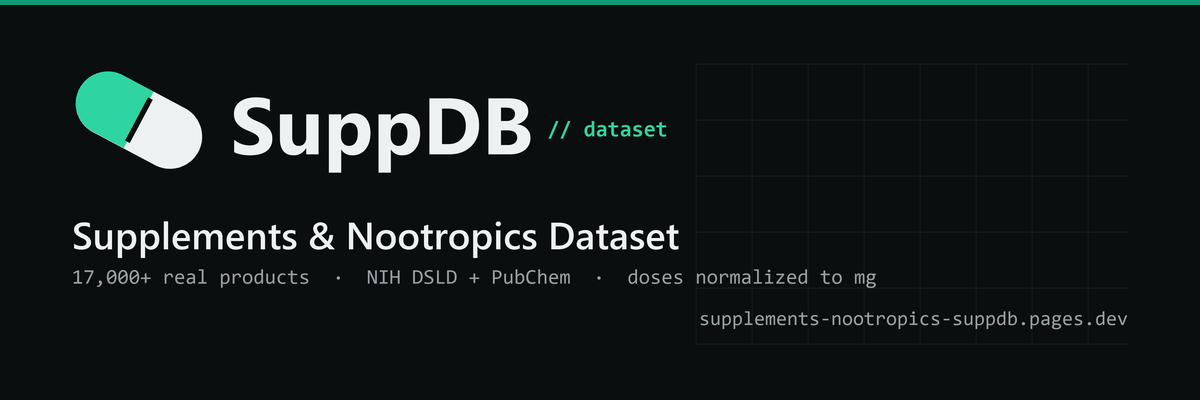
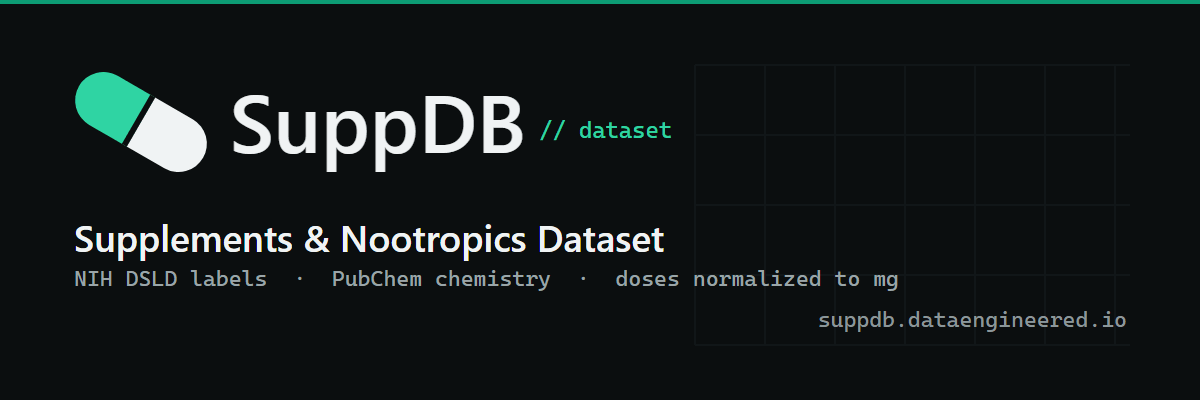
fix(cards): count-free social card on the new host; Kaggle cover redrawn
The social card (og:image, twitter:image, JSON-LD, web manifest) and the
Kaggle cover still read "17,000+ real products" / "115,000+ ingredient
records" and the retired supplements-nootropics-suppdb.pages.dev host.

- og-image-v2.png: same design, suppdb.dataengineered.io, no counts.
  New name because _headers serves /*.png immutable for a year; every
  reference moved (homepage + /stats/ in 5 languages via i18n build,
  generate_stats.py, site.webmanifest, sw.js with a new cache name).
- og-image.png deleted and listed in RETIRED_FILES in the middleware
  (404), as on RecallDB.
- assets/kaggle-cover.png redrawn in place (only the README links it).
- scripts/render_cards.py draws both (headless Edge + numpy).

diff --git a/fr/index.html b/fr/index.html
@@ -33,12 +33,12 @@
 <meta content="https://suppdb.dataengineered.io/fr/" property="og:url"/>
 <meta content="SuppDB — Jeu de données compléments alimentaires &amp; nootropiques" property="og:site_name"/>
 <meta content="website" property="og:type"/>
-<meta content="https://suppdb.dataengineered.io/og-image.png" property="og:image"/>
+<meta content="https://suppdb.dataengineered.io/og-image-v2.png" property="og:image"/>
 <!-- Twitter Card -->
 <meta content="summary_large_image" name="twitter:card"/>
 <meta content="SuppDB — Jeu de données compléments alimentaires &amp; nootropiques (NIH DSLD + PubChem)" name="twitter:title"/>
 <meta content="Données structurées d'étiquettes de compléments : doses en mg, mélanges exclusifs, chimie PubChem — plus une couche Sécurité : interactions médicamenteuses, limites supérieures, contre-indications." name="twitter:description"/>
-<meta content="https://suppdb.dataengineered.io/og-image.png" name="twitter:image"/>
+<meta content="https://suppdb.dataengineered.io/og-image-v2.png" name="twitter:image"/>
 <!-- JSON-LD Structured Data Schema -->
 <script type="application/ld+json">
 {
@@ -69,7 +69,7 @@
 {
   "@context": "https://schema.org",
   "@type": "Product",
-  "image": "https://suppdb.dataengineered.io/og-image.png",
+  "image": "https://suppdb.dataengineered.io/og-image-v2.png",
   "name": "SuppDB Jeu de données compléments alimentaires & nootropiques — Snapshot complet",
   "description": "Jeu de données structuré sur les compléments alimentaires : 18 000+ produits réels de 2 000+ marques, chaque dose normalisée en mg, mélanges exclusifs signalés, enrichi avec la chimie NIH PubChem (CID, formule, SMILES, InChIKey) et les apports de référence NIH DRI, avec provenance complète des sources. SQLite relationnel plus CSV et JSON.",
   "brand": {
@@ -141,7 +141,7 @@
 {
   "@context": "https://schema.org",
   "@type": "Product",
-  "image": "https://suppdb.dataengineered.io/og-image.png",
+  "image": "https://suppdb.dataengineered.io/og-image-v2.png",
   "name": "Couche Sécurité & interactions SuppDB",
   "description": "Couche de sécurité pour les compléments alimentaires : 8 300+ interactions complément × médicament classées par niveau de preuve, pourcentage par produit de la limite supérieure tolérable avec indicateurs de dépassement, contre-indications liées à des pathologies et indicateurs AMA, livrés en SQLite relationnel + CSV + JSON.",
   "brand": {

diff --git a/de/index.html b/de/index.html
@@ -33,12 +33,12 @@
 <meta content="https://suppdb.dataengineered.io/de/" property="og:url"/>
 <meta content="SuppDB-Datensatz zu Nahrungsergänzungsmitteln &amp; Nootropika" property="og:site_name"/>
 <meta content="website" property="og:type"/>
-<meta content="https://suppdb.dataengineered.io/og-image.png" property="og:image"/>
+<meta content="https://suppdb.dataengineered.io/og-image-v2.png" property="og:image"/>
 <!-- Twitter Card -->
 <meta content="summary_large_image" name="twitter:card"/>
 <meta content="SuppDB — Datensatz zu Nahrungsergänzungsmitteln &amp; Nootropika (NIH DSLD + PubChem)" name="twitter:title"/>
 <meta content="Strukturierte Etikettendaten zu Nahrungsergänzungsmitteln: mg-Dosen, proprietäre Mischungen, PubChem-Chemie — plus Sicherheitsebene mit Wechselwirkungen, Höchstmengen und Kontraindikationen." name="twitter:description"/>
-<meta content="https://suppdb.dataengineered.io/og-image.png" name="twitter:image"/>
+<meta content="https://suppdb.dataengineered.io/og-image-v2.png" name="twitter:image"/>
 <!-- JSON-LD Structured Data Schema -->
 <script type="application/ld+json">
 {
@@ -69,7 +69,7 @@
 {
   "@context": "https://schema.org",
   "@type": "Product",
-  "image": "https://suppdb.dataengineered.io/og-image.png",
+  "image": "https://suppdb.dataengineered.io/og-image-v2.png",
   "name": "SuppDB-Datensatz zu Nahrungsergänzungsmitteln & Nootropika — Vollständiger Snapshot",
   "description": "Strukturierter Datensatz zu Nahrungsergänzungsmitteln: 18.000+ echte Produkte von 2.000+ Marken, jede Dosis auf mg normalisiert, proprietäre Mischungen markiert, angereichert mit NIH-PubChem-Chemie (CID, Summenformel, SMILES, InChIKey) und NIH-DRI-Referenzzufuhrwerten, mit vollständiger Herkunftsangabe. Relationale SQLite-Datenbank plus CSV und JSON.",
   "brand": {
@@ -141,7 +141,7 @@
 {
   "@context": "https://schema.org",
   "@type": "Product",
-  "image": "https://suppdb.dataengineered.io/og-image.png",
+  "image": "https://suppdb.dataengineered.io/og-image-v2.png",
   "name": "SuppDB-Sicherheits- & Wechselwirkungsebene",
   "description": "Sicherheitsebene für Nahrungsergänzungsmittel: 8.300+ nach Evidenz bewertete Wechselwirkungen zwischen Supplements und Arzneimitteln, Anteil an der tolerierbaren Höchstmenge pro Produkt in % mit Markierung bei Überschreitung, Kontraindikationen bei Erkrankungen und WADA-Markierungen, geliefert als relationale SQLite + CSV + JSON.",
   "brand": {

diff --git a/pt-br/index.html b/pt-br/index.html
@@ -33,12 +33,12 @@
 <meta content="https://suppdb.dataengineered.io/pt-br/" property="og:url"/>
 <meta content="SuppDB — conjunto de dados de suplementos &amp; nootrópicos" property="og:site_name"/>
 <meta content="website" property="og:type"/>
-<meta content="https://suppdb.dataengineered.io/og-image.png" property="og:image"/>
+<meta content="https://suppdb.dataengineered.io/og-image-v2.png" property="og:image"/>
 <!-- Twitter Card -->
 <meta content="summary_large_image" name="twitter:card"/>
 <meta content="SuppDB — conjunto de dados de suplementos &amp; nootrópicos (NIH DSLD + PubChem)" name="twitter:title"/>
 <meta content="Dados estruturados de rótulos de suplementos: doses em mg, misturas proprietárias, química PubChem — mais uma camada de segurança com interações medicamentosas, limites superiores e contraindicações." name="twitter:description"/>
-<meta content="https://suppdb.dataengineered.io/og-image.png" name="twitter:image"/>
+<meta content="https://suppdb.dataengineered.io/og-image-v2.png" name="twitter:image"/>
 <!-- JSON-LD Structured Data Schema -->
 <script type="application/ld+json">
 {
@@ -69,7 +69,7 @@
 {
   "@context": "https://schema.org",
   "@type": "Product",
-  "image": "https://suppdb.dataengineered.io/og-image.png",
+  "image": "https://suppdb.dataengineered.io/og-image-v2.png",
   "name": "SuppDB — conjunto de dados de suplementos & nootrópicos — Snapshot completo",
   "description": "Conjunto de dados estruturado de suplementos: 18.000+ produtos reais de 2.000+ marcas, todas as doses normalizadas em mg, misturas proprietárias sinalizadas, enriquecido com química NIH PubChem (CID, fórmula, SMILES, InChIKey) e ingestões de referência NIH DRI, com procedência completa da fonte. SQLite relacional mais CSV e JSON.",
   "brand": {
@@ -141,7 +141,7 @@
 {
   "@context": "https://schema.org",
   "@type": "Product",
-  "image": "https://suppdb.dataengineered.io/og-image.png",
+  "image": "https://suppdb.dataengineered.io/og-image-v2.png",
   "name": "Camada de segurança & interações do SuppDB",
   "description": "Camada de segurança para suplementos: 8.300+ interações suplemento × medicamento com grau de evidência, % do limite superior tolerável por produto com sinalização de excesso, contraindicações por condição e sinalizações WADA, entregues em SQLite relacional + CSV + JSON.",
   "brand": {

diff --git a/es/index.html b/es/index.html
@@ -33,12 +33,12 @@
 <meta content="https://suppdb.dataengineered.io/es/" property="og:url"/>
 <meta content="SuppDB: dataset de suplementos y nootrópicos" property="og:site_name"/>
 <meta content="website" property="og:type"/>
-<meta content="https://suppdb.dataengineered.io/og-image.png" property="og:image"/>
+<meta content="https://suppdb.dataengineered.io/og-image-v2.png" property="og:image"/>
 <!-- Twitter Card -->
 <meta content="summary_large_image" name="twitter:card"/>
 <meta content="SuppDB — Dataset de suplementos y nootrópicos (NIH DSLD + PubChem)" name="twitter:title"/>
 <meta content="Datos estructurados de etiquetas de suplementos: dosis en mg, mezclas patentadas, química de PubChem — más una capa de seguridad de interacciones, límites superiores y contraindicaciones." name="twitter:description"/>
-<meta content="https://suppdb.dataengineered.io/og-image.png" name="twitter:image"/>
+<meta content="https://suppdb.dataengineered.io/og-image-v2.png" name="twitter:image"/>
 <!-- JSON-LD Structured Data Schema -->
 <script type="application/ld+json">
 {
@@ -69,7 +69,7 @@
 {
   "@context": "https://schema.org",
   "@type": "Product",
-  "image": "https://suppdb.dataengineered.io/og-image.png",
+  "image": "https://suppdb.dataengineered.io/og-image-v2.png",
   "name": "SuppDB: dataset de suplementos y nootrópicos — Snapshot completo",
   "description": "Dataset estructurado de suplementos: 18.000+ productos reales de 2.000+ marcas, cada dosis normalizada a mg, mezclas patentadas marcadas, enriquecido con química de NIH PubChem (CID, fórmula, SMILES, InChIKey) e ingestas de referencia DRI de los NIH, con procedencia completa de las fuentes. SQLite relacional más CSV y JSON.",
   "brand": {
@@ -141,7 +141,7 @@
 {
   "@context": "https://schema.org",
   "@type": "Product",
-  "image": "https://suppdb.dataengineered.io/og-image.png",
+  "image": "https://suppdb.dataengineered.io/og-image-v2.png",
   "name": "Capa de seguridad e interacciones de SuppDB",
   "description": "Capa de seguridad para suplementos: 8.300+ interacciones suplemento × fármaco con grado de evidencia, porcentaje del nivel máximo de ingesta tolerable por producto con indicadores de exceso, contraindicaciones por condición e indicadores de la AMA, entregada como SQLite relacional + CSV + JSON.",
   "brand": {

diff --git a/index.html b/index.html
@@ -32,13 +32,13 @@
   <meta property="og:url" content="https://suppdb.dataengineered.io/" />
   <meta property="og:site_name" content="SuppDB Supplements & Nootropics Dataset" />
   <meta property="og:type" content="website" />
-  <meta property="og:image" content="https://suppdb.dataengineered.io/og-image.png" />
+  <meta property="og:image" content="https://suppdb.dataengineered.io/og-image-v2.png" />
 
   <!-- Twitter Card -->
   <meta name="twitter:card" content="summary_large_image" />
   <meta name="twitter:title" content="SuppDB — Supplements & Nootropics Dataset (NIH DSLD + PubChem)" />
   <meta name="twitter:description" content="Structured supplement-label data: mg doses, proprietary blends, PubChem chemistry — plus a Safety layer of drug interactions, upper-limit scores and contraindications." />
-  <meta name="twitter:image" content="https://suppdb.dataengineered.io/og-image.png" />
+  <meta name="twitter:image" content="https://suppdb.dataengineered.io/og-image-v2.png" />
 
   <!-- JSON-LD Structured Data Schema -->
   <script type="application/ld+json">
@@ -69,7 +69,7 @@
   {
     "@context": "https://schema.org",
     "@type": "Product",
-    "image": "https://suppdb.dataengineered.io/og-image.png",
+    "image": "https://suppdb.dataengineered.io/og-image-v2.png",
     "name": "SuppDB Supplements & Nootropics Dataset — Full Snapshot",
     "description": "Structured supplement dataset: 18,000+ real products from 2,000+ brands, every dose normalized to mg, proprietary blends flagged, enriched with NIH PubChem chemistry (CID, formula, SMILES, InChIKey) and NIH DRI reference intakes, with full source provenance. Relational SQLite plus CSV and JSON.",
     "brand": {
@@ -92,7 +92,7 @@
   {
     "@context": "https://schema.org",
     "@type": "Product",
-    "image": "https://suppdb.dataengineered.io/og-image.png",
+    "image": "https://suppdb.dataengineered.io/og-image-v2.png",
     "name": "SuppDB Safety & Interaction Layer",
     "description": "Safety layer for supplement products: 8,300+ evidence-graded supplement × drug interactions, per-product % of the tolerable upper limit with over-limit flags, condition contraindications and WADA flags, delivered as relational SQLite + CSV + JSON.",
     "brand": {

diff --git a/functions/_middleware.js b/functions/_middleware.js
@@ -11,6 +11,11 @@ const NEW_HOST = "suppdb.dataengineered.io";
 const REPO_ONLY_PREFIXES = ["/locales/", "/scripts/"];
 const REPO_ONLY_FILES = new Set(["/i18n.config.json", "/readme.md", "/vercel.json", "/requirements.txt"]);
 
+// Images deleted from the repository (2026-10-30, replaced by the count-free og-image-v2.png).
+// They were served as immutable for a year, and Pages can keep answering a deleted immutable
+// file with its old bytes from a cache that a zone purge does not reach, so they are refused here.
+const RETIRED_FILES = new Set(["/og-image.png"]);
+
 // Matched on the decoded, slash-collapsed, lower-cased path, because the asset
 // server also answers /locales%2Fes.json and //locales/es.json.
 function isRepoOnly(pathname) {
@@ -21,7 +26,7 @@ function isRepoOnly(pathname) {
     return true; // malformed escapes never name a real page
   }
   path = path.replace(/\/{2,}/g, "/").toLowerCase();
-  if (REPO_ONLY_FILES.has(path)) return true;
+  if (REPO_ONLY_FILES.has(path) || RETIRED_FILES.has(path)) return true;
   if (REPO_ONLY_PREFIXES.some((prefix) => path.startsWith(prefix))) return true;
   // dotfiles and dot-segments (.gitignore, .github/, ..), but keep /.well-known/ usable
   return path.split("/").some((seg) => seg.startsWith(".") && seg !== ".well-known");

diff --git a/fr/stats/index.html b/fr/stats/index.html
@@ -29,7 +29,7 @@
 <meta content="Les compléments en chiffres à partir de 18 480 étiquettes NIH DSLD : ingrédients les plus courants, part des produits à mélange propriétaire, doses face à l'apport de référence journalier et à la limite supérieure, formes, formes de magnésium, caféine par portion. Libre de citation et d'intégration." property="og:description"/>
 <meta content="https://suppdb.dataengineered.io/fr/stats/" property="og:url"/>
 <meta content="article" property="og:type"/>
-<meta content="https://suppdb.dataengineered.io/og-image.png" property="og:image"/>
+<meta content="https://suppdb.dataengineered.io/og-image-v2.png" property="og:image"/>
 <meta content="summary_large_image" name="twitter:card"/>
 <link href="https://fonts.googleapis.com" rel="preconnect"/>
 <link crossorigin="" href="https://fonts.gstatic.com" rel="preconnect"/>
@@ -44,7 +44,7 @@
   "url": "https://suppdb.dataengineered.io/fr/stats/",
   "datePublished": "2026-09-18",
   "dateModified": "2026-09-18",
-  "image": "https://suppdb.dataengineered.io/og-image.png",
+  "image": "https://suppdb.dataengineered.io/og-image-v2.png",
   "inLanguage": "en",
   "author": {
     "@type": "Organization",

diff --git a/pt-br/stats/index.html b/pt-br/stats/index.html
@@ -29,7 +29,7 @@
 <meta content="Suplementos em números a partir de 18.480 rótulos NIH DSLD: os ingredientes mais comuns, participação de produtos com blends proprietários, doses versus a ingestão diária de referência e o limite máximo, formas, formas de magnésio, cafeína por porção. Livre para citar e incorporar." property="og:description"/>
 <meta content="https://suppdb.dataengineered.io/pt-br/stats/" property="og:url"/>
 <meta content="article" property="og:type"/>
-<meta content="https://suppdb.dataengineered.io/og-image.png" property="og:image"/>
+<meta content="https://suppdb.dataengineered.io/og-image-v2.png" property="og:image"/>
 <meta content="summary_large_image" name="twitter:card"/>
 <link href="https://fonts.googleapis.com" rel="preconnect"/>
 <link crossorigin="" href="https://fonts.gstatic.com" rel="preconnect"/>
@@ -44,7 +44,7 @@
   "url": "https://suppdb.dataengineered.io/pt-br/stats/",
   "datePublished": "2026-09-18",
   "dateModified": "2026-09-18",
-  "image": "https://suppdb.dataengineered.io/og-image.png",
+  "image": "https://suppdb.dataengineered.io/og-image-v2.png",
   "inLanguage": "en",
   "author": {
     "@type": "Organization",

diff --git a/es/stats/index.html b/es/stats/index.html
@@ -29,7 +29,7 @@
 <meta content="Suplementos en cifras a partir de 18.480 etiquetas NIH DSLD: los ingredientes más comunes, proporción de productos con mezclas propietarias, dosis frente a la ingesta diaria de referencia y el límite máximo, formas, formas de magnesio, cafeína por porción. Libre para citar e insertar." property="og:description"/>
 <meta content="https://suppdb.dataengineered.io/es/stats/" property="og:url"/>
 <meta content="article" property="og:type"/>
-<meta content="https://suppdb.dataengineered.io/og-image.png" property="og:image"/>
+<meta content="https://suppdb.dataengineered.io/og-image-v2.png" property="og:image"/>
 <meta content="summary_large_image" name="twitter:card"/>
 <link href="https://fonts.googleapis.com" rel="preconnect"/>
 <link crossorigin="" href="https://fonts.gstatic.com" rel="preconnect"/>
@@ -44,7 +44,7 @@
   "url": "https://suppdb.dataengineered.io/es/stats/",
   "datePublished": "2026-09-18",
   "dateModified": "2026-09-18",
-  "image": "https://suppdb.dataengineered.io/og-image.png",
+  "image": "https://suppdb.dataengineered.io/og-image-v2.png",
   "inLanguage": "en",
   "author": {
     "@type": "Organization",

diff --git a/de/stats/index.html b/de/stats/index.html
@@ -29,7 +29,7 @@
 <meta content="Supplements in Zahlen aus 18.480 NIH-DSLD-Etiketten: die häufigsten Inhaltsstoffe, Anteil der Produkte mit proprietären Mischungen, Dosen gegenüber Tagesreferenzwert und Höchstmenge, Formen, Magnesiumformen, Koffein pro Portion. Frei zitier- und einbettbar." property="og:description"/>
 <meta content="https://suppdb.dataengineered.io/de/stats/" property="og:url"/>
 <meta content="article" property="og:type"/>
-<meta content="https://suppdb.dataengineered.io/og-image.png" property="og:image"/>
+<meta content="https://suppdb.dataengineered.io/og-image-v2.png" property="og:image"/>
 <meta content="summary_large_image" name="twitter:card"/>
 <link href="https://fonts.googleapis.com" rel="preconnect"/>
 <link crossorigin="" href="https://fonts.gstatic.com" rel="preconnect"/>
@@ -44,7 +44,7 @@
   "url": "https://suppdb.dataengineered.io/de/stats/",
   "datePublished": "2026-09-18",
   "dateModified": "2026-09-18",
-  "image": "https://suppdb.dataengineered.io/og-image.png",
+  "image": "https://suppdb.dataengineered.io/og-image-v2.png",
   "inLanguage": "en",
   "author": {
     "@type": "Organization",

diff --git a/stats/index.html b/stats/index.html
@@ -27,7 +27,7 @@
   <meta property="og:description" content="Supplements in numbers from 18,480 NIH DSLD labels: the most common ingredients, share of products using proprietary blends, doses versus the daily reference intake and the upper limit, forms, magnesium forms, caffeine per serving. Free to cite and embed." />
   <meta property="og:url" content="https://suppdb.dataengineered.io/stats/" />
   <meta property="og:type" content="article" />
-  <meta property="og:image" content="https://suppdb.dataengineered.io/og-image.png" />
+  <meta property="og:image" content="https://suppdb.dataengineered.io/og-image-v2.png" />
   <meta name="twitter:card" content="summary_large_image" />
 
   <link rel="preconnect" href="https://fonts.googleapis.com">
@@ -43,7 +43,7 @@
   "url": "https://suppdb.dataengineered.io/stats/",
   "datePublished": "2026-09-18",
   "dateModified": "2026-09-18",
-  "image": "https://suppdb.dataengineered.io/og-image.png",
+  "image": "https://suppdb.dataengineered.io/og-image-v2.png",
   "inLanguage": "en",
   "author": {
     "@type": "Organization",

diff --git a/sw.js b/sw.js
@@ -12,12 +12,12 @@
  * are never written to or served from the cache.
  */
 
-const CACHE_NAME = 'suppdb-public-cache-v2026.09.1';
+const CACHE_NAME = 'suppdb-public-cache-v2026.10.1';
 const CORE_ASSETS = [
   '/',
   '/favicon.ico',
   '/favicon.png',
-  '/og-image.png',
+  '/og-image-v2.png',
   '/site.webmanifest',
   '/sitemap.xml',
   '/samples/suppdb_sample.csv'
